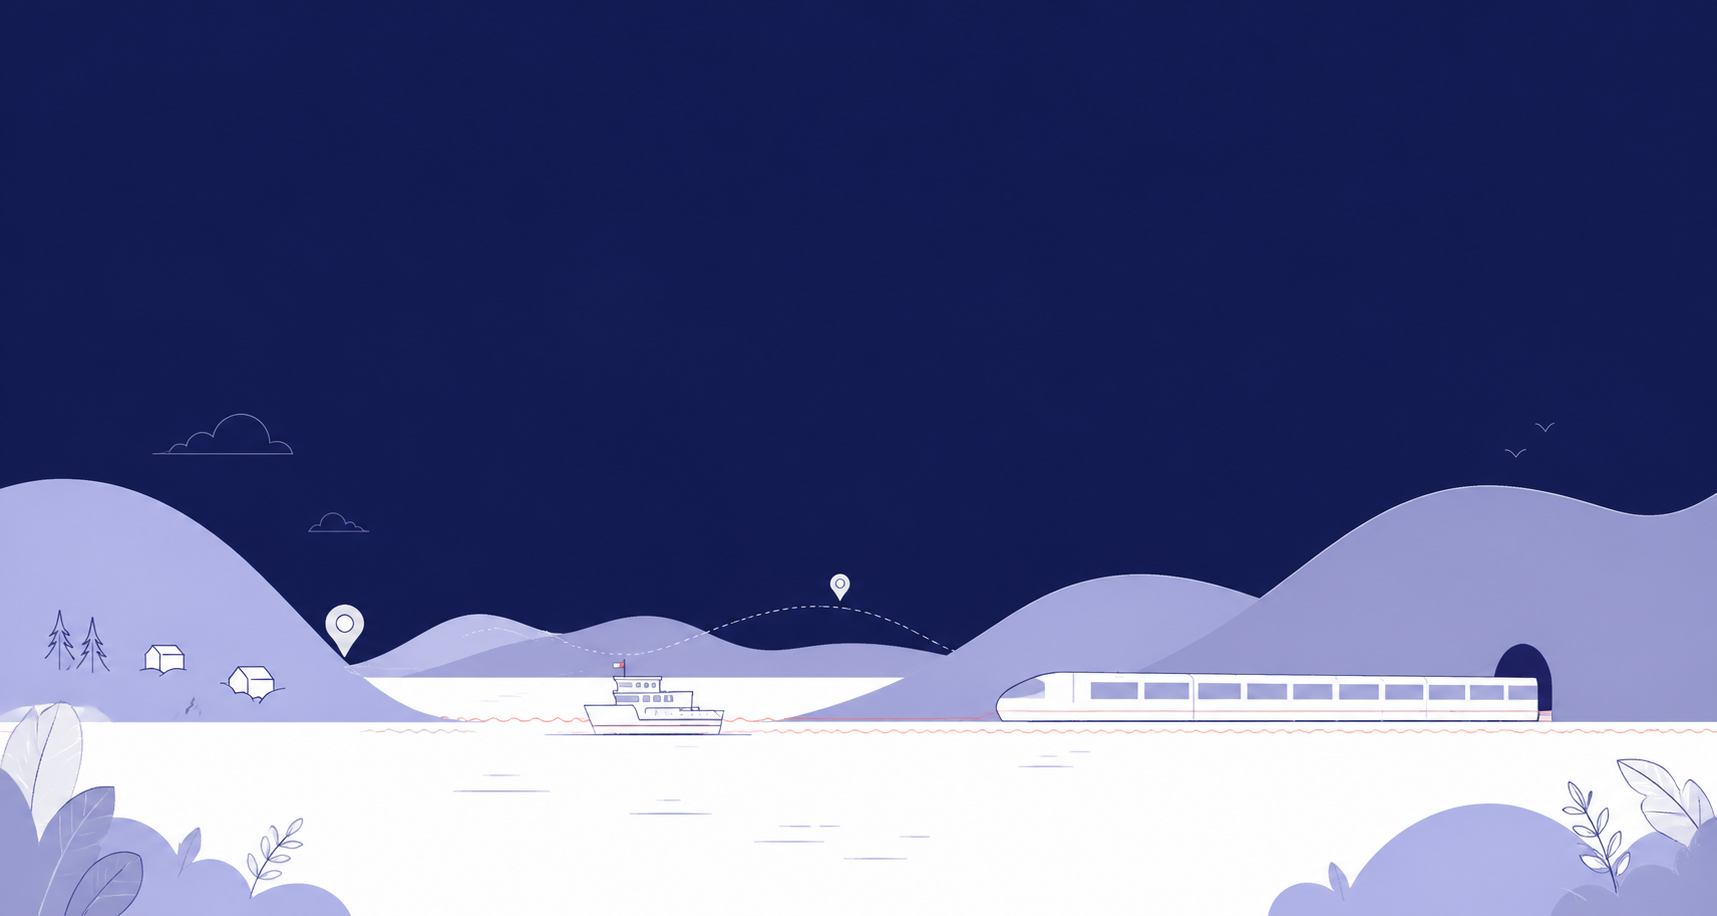
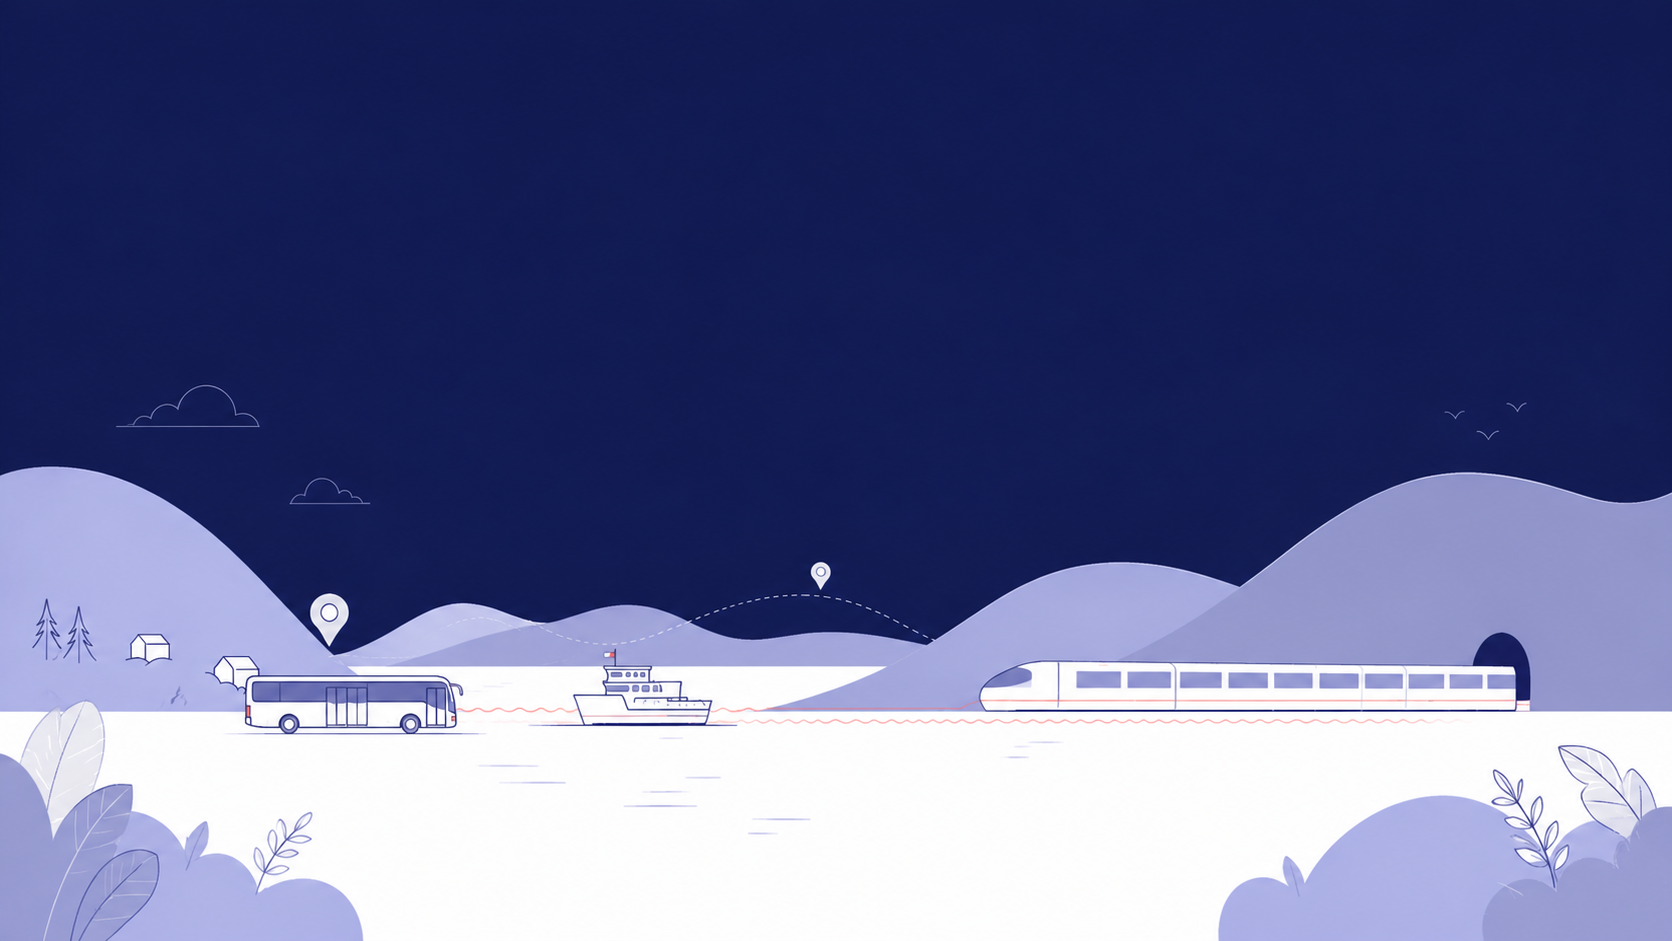
Improve dashboard UI with premium hero design and styling

diff --git a/wwwroot/css/site.css b/wwwroot/css/site.css
@@ -12,151 +12,183 @@ html {
 
 body {
     margin-bottom: 60px;
-    background: #f4f7fb;
+    background:
+        radial-gradient(circle at top left, rgba(59, 130, 246, 0.08), transparent 30%),
+        linear-gradient(180deg, #f8fbff 0%, #eef3f9 100%);
     color: #0f172a;
+    font-family: Inter, system-ui, -apple-system, BlinkMacSystemFont, "Segoe UI", sans-serif;
 }
 
 h1, h2, h3 {
-    letter-spacing: -0.5px;
-}
-
-.btn {
-    border-radius: 12px;
+    letter-spacing: -0.6px;
 }
 
 .navbar {
-    background: white !important;
-    box-shadow: 0 8px 24px rgba(15, 23, 42, 0.06);
+    background: rgba(255, 255, 255, 0.88) !important;
+    backdrop-filter: blur(14px);
+    box-shadow: 0 10px 30px rgba(15, 23, 42, 0.06);
 }
 
-/* PREMIUM HERO */
+.navbar-brand {
+    font-weight: 900;
+}
+
+.nav-link {
+    font-weight: 600;
+    color: #334155 !important;
+}
+
+.nav-link:hover {
+    color: #0f172a !important;
+}
+
+.btn {
+    border-radius: 14px;
+}
+
+/* A+ HERO */
 .hero-section {
     position: relative;
-    border-radius: 32px;
+    border-radius: 34px;
     overflow: hidden;
-    margin: 36px auto 48px auto;
+    margin: 40px auto 52px auto;
     background-image: url('/images/train-bg.jpg');
     background-size: cover;
     background-position: center bottom;
-    min-height: 520px;
-    max-width: 1180px;
+    min-height: 500px;
+    max-width: 1220px;
     display: flex;
     align-items: stretch;
-    box-shadow: 0 34px 90px rgba(15, 23, 42, 0.24);
-    border: 1px solid rgba(255, 255, 255, 0.35);
+    box-shadow: 0 40px 100px rgba(15, 23, 42, 0.25);
+    border: 1px solid rgba(255, 255, 255, 0.5);
 }
 
 .hero-overlay {
-
-  background:
-    linear-gradient(
-        90deg,
-        rgba(2, 6, 23, 0.92) 0%,
-        rgba(15, 23, 42, 0.78) 42%,
-        rgba(15, 23, 42, 0.28) 100%
-    ),
-    linear-gradient(
-        to bottom,
-        transparent 70%,
-        #f4f7fb 100%
-    );
     width: 100%;
-    padding-left: 40px;
-    min-height: 520px;
+    min-height: 500px;
     display: flex;
     align-items: center;
+    padding-left: 42px;
+
     background:
         linear-gradient(
             90deg,
-            rgba(2, 6, 23, 0.92) 0%,
-            rgba(15, 23, 42, 0.78) 42%,
-            rgba(15, 23, 42, 0.28) 100%
+            rgba(2, 6, 23, 0.75) 0%,
+            rgba(15, 23, 42, 0.55) 40%,
+            rgba(15, 23, 42, 0.15) 75%,
+            rgba(15, 23, 42, 0.05) 100%
+        ),
+        linear-gradient(
+            to bottom,
+            transparent 60%,
+            rgba(244, 247, 251, 0.65) 100%
         );
 }
 
 .hero-section h1 {
-    font-size: 68px;
-    font-weight: 900;
-    letter-spacing: -2.5px;
-    margin-bottom: 16px;
+    font-size: 72px;
+    font-weight: 950;
+    letter-spacing: -3px;
+    margin-bottom: 18px;
 }
 
 .hero-section p {
     font-size: 21px;
     max-width: 720px;
-    line-height: 1.6;
-    color: rgba(255, 255, 255, 0.78) !important;
+    line-height: 1.65;
+    color: rgba(255, 255, 255, 0.9) !important;
 }
 
 .hero-section .badge {
-    padding: 8px 12px;
+    padding: 8px 13px;
     border-radius: 999px;
-    font-weight: 800;
+    font-weight: 850;
+    box-shadow: 0 10px 24px rgba(234, 179, 8, 0.22);
 }
 
 .hero-section .btn {
     border-radius: 16px;
     padding: 13px 24px;
-    font-weight: 700;
-    box-shadow: 0 12px 28px rgba(0, 0, 0, 0.18);
+    font-weight: 800;
     transition: all 0.25s ease;
 }
 
 .hero-section .btn:hover {
     transform: translateY(-2px);
-    box-shadow: 0 18px 40px rgba(0, 0, 0, 0.25);
+    box-shadow: 0 18px 42px rgba(0, 0, 0, 0.25);
 }
 
+/* STAT CARDS */
 .stat-card {
-    background: white;
-    border-radius: 24px;
-    padding: 24px;
+    background: rgba(255, 255, 255, 0.92);
+    border-radius: 26px;
+    padding: 25px;
     display: flex;
     align-items: center;
     gap: 18px;
-    min-height: 130px;
-    box-shadow: 0 16px 40px rgba(15, 23, 42, 0.08);
-    border: 1px solid rgba(148, 163, 184, 0.18);
+    min-height: 128px;
+    box-shadow: 0 18px 45px rgba(15, 23, 42, 0.08);
+    border: 1px solid rgba(148, 163, 184, 0.22);
+    transition: all 0.25s ease;
+}
+
+.stat-card:hover {
+    transform: translateY(-5px);
+    box-shadow: 0 26px 60px rgba(15, 23, 42, 0.13);
 }
 
 .stat-icon {
-    width: 58px;
-    height: 58px;
-    border-radius: 18px;
-    background: #eef6ff;
+    width: 60px;
+    height: 60px;
+    border-radius: 20px;
+    background: linear-gradient(135deg, #eff6ff, #e0f2fe);
     display: grid;
     place-items: center;
-    font-size: 28px;
+    font-size: 29px;
+    box-shadow: inset 0 0 0 1px rgba(59, 130, 246, 0.12);
 }
 
 .stat-label {
     margin: 0;
     color: #64748b;
-    font-weight: 600;
+    font-weight: 750;
 }
 
 .stat-card h2 {
     margin: 0;
-    font-weight: 800;
-    color: #0f172a;
+    font-weight: 950;
+    color: #020617;
 }
 
+/* PANELS */
 .dashboard-panel {
-    background: white;
-    border-radius: 26px;
-    padding: 28px;
-    box-shadow: 0 16px 40px rgba(15, 23, 42, 0.08);
-    border: 1px solid rgba(148, 163, 184, 0.18);
+    background: rgba(255, 255, 255, 0.94);
+    border-radius: 30px;
+    padding: 30px;
+    box-shadow: 0 20px 50px rgba(15, 23, 42, 0.09);
+    border: 1px solid rgba(148, 163, 184, 0.22);
 }
 
 .dashboard-panel h3 {
-    font-weight: 800;
+    font-weight: 950;
     margin: 0;
+    color: #020617;
 }
 
-.latest-list .list-group-item {
+.list-group-item {
     border: 1px solid #e5e7eb;
     padding: 16px;
+    transition: all 0.2s ease;
+}
+
+.list-group-item:hover {
+    background: #f8fafc;
+    transform: translateX(3px);
+}
+
+.badge {
+    border-radius: 999px;
+    padding: 7px 10px;
 }
 
 .table {
@@ -165,32 +197,28 @@ h1, h2, h3 {
     overflow: hidden;
 }
 
-.pulse {
-    animation: pulse 1.5s infinite;
+.footer {
+    background: transparent;
 }
 
-@keyframes pulse {
-    0% {
-        opacity: 1;
+@media (max-width: 768px) {
+    .hero-section {
+        min-height: 420px;
+        margin-top: 24px;
+        border-radius: 24px;
     }
 
-    50% {
-        opacity: 0.55;
+    .hero-overlay {
+        min-height: 420px;
+        padding-left: 18px;
+        padding-right: 18px;
     }
 
-    100% {
-        opacity: 1;
-    }
-}
-
-@keyframes fadeIn {
-    from {
-        opacity: 0;
-        transform: translateY(22px);
+    .hero-section h1 {
+        font-size: 44px;
     }
 
-    to {
-        opacity: 1;
-        transform: translateY(0);
+    .hero-section p {
+        font-size: 17px;
     }
 }

diff --git a/obj/Debug/net10.0/TransitInsight.AssemblyInfo.cs b/obj/Debug/net10.0/TransitInsight.AssemblyInfo.cs
@@ -13,7 +13,7 @@ using System.Reflection;
 [assembly: System.Reflection.AssemblyCompanyAttribute("TransitInsight")]
 [assembly: System.Reflection.AssemblyConfigurationAttribute("Debug")]
 [assembly: System.Reflection.AssemblyFileVersionAttribute("1.0.0.0")]
-[assembly: System.Reflection.AssemblyInformationalVersionAttribute("1.0.0+b9e5aa9b4b41dd5ef4f0a7a115980d7f008dc072")]
+[assembly: System.Reflection.AssemblyInformationalVersionAttribute("1.0.0+8272fdcd65004d4dc002bdc2b7e2d1241250120b")]
 [assembly: System.Reflection.AssemblyProductAttribute("TransitInsight")]
 [assembly: System.Reflection.AssemblyTitleAttribute("TransitInsight")]
 [assembly: System.Reflection.AssemblyVersionAttribute("1.0.0.0")]